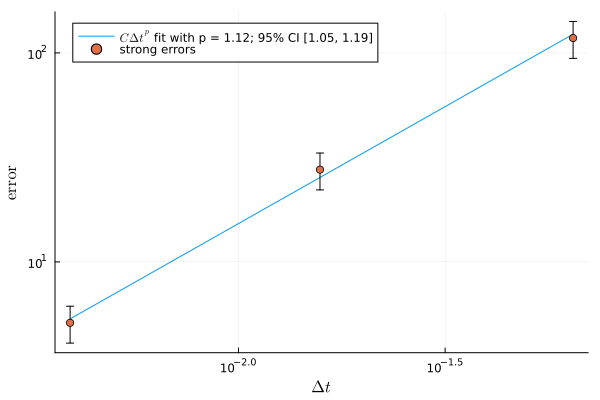
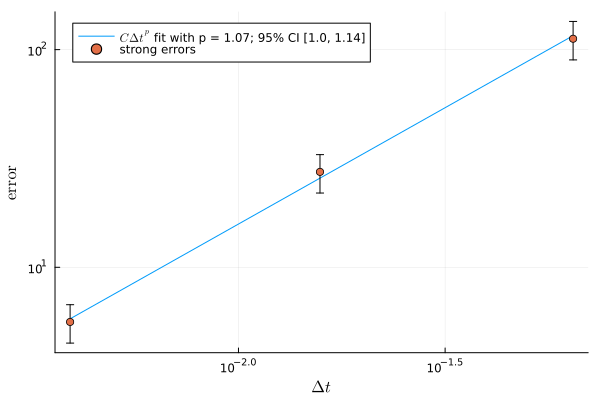
update fisher-kpp

diff --git a/latex/rode_conv_em.tex b/latex/rode_conv_em.tex
@@ -1681,17 +1681,14 @@ For the Monte-Carlo estimate of the strong error, we choose $m=100.$ Table \ref{
     \begin{tabular}[htb]{|r|l|l|l|}
         \hline N & dt & error & std err \\
         \hline \hline
-        1024 & 0.00196 & 0.244 & 0.0155 \\
-        1152 & 0.00174 & 0.215 & 0.0136 \\
-        1280 & 0.00156 & 0.195 & 0.0124 \\
-        1536 & 0.0013 & 0.163 & 0.0103 \\
-        1920 & 0.00104 & 0.131 & 0.00829 \\
-        2048 & 0.000977 & 0.124 & 0.00782 \\
+        32 & 0.0645 & 112.0 & 11.2 \\
+        128 & 0.0157 & 27.4 & 2.75 \\
+        512 & 0.00391 & 5.61 & 0.562 \\
         \hline
     \end{tabular}
     \bigskip
 
-    \caption{Mesh points (N), time steps (dt), strong error (error), and standard error (std err) of the Euler method for Fisher-KPP equation for each mesh resolution $N$, with initial condition $X_0 = 0$ and Hawkes-modulated colored noise, on the time interval $I = [0.0, 2.0]$, based on $M = 200$ sample paths for each fixed time step, with the target solution calculated with $4423680$ points. The order of strong convergence is estimated to be $p = 0.981$, with the 95\% confidence interval $[0.7565, 1.2047]$}.
+    \caption{Mesh points (N), time steps (dt), strong error (error), and standard error (std err) of the Euler method for the Fisher-KPP equation for each mesh resolution $N$, with initial condition $X_0 = 0$ and Hawkes-modulated Ornstein-Uhlenbeck colored noise, on the time interval $I = [0.0, 2.0]$, based on $M = 100$ sample paths for each fixed time step, with the target solution calculated with $262144$ points. The order of strong convergence is estimated to be $p = 1.069$, with the 95\% confidence interval $[0.9969, 1.1407]$.}
     \label{tablefisherkpp}
 \end{table}
 
